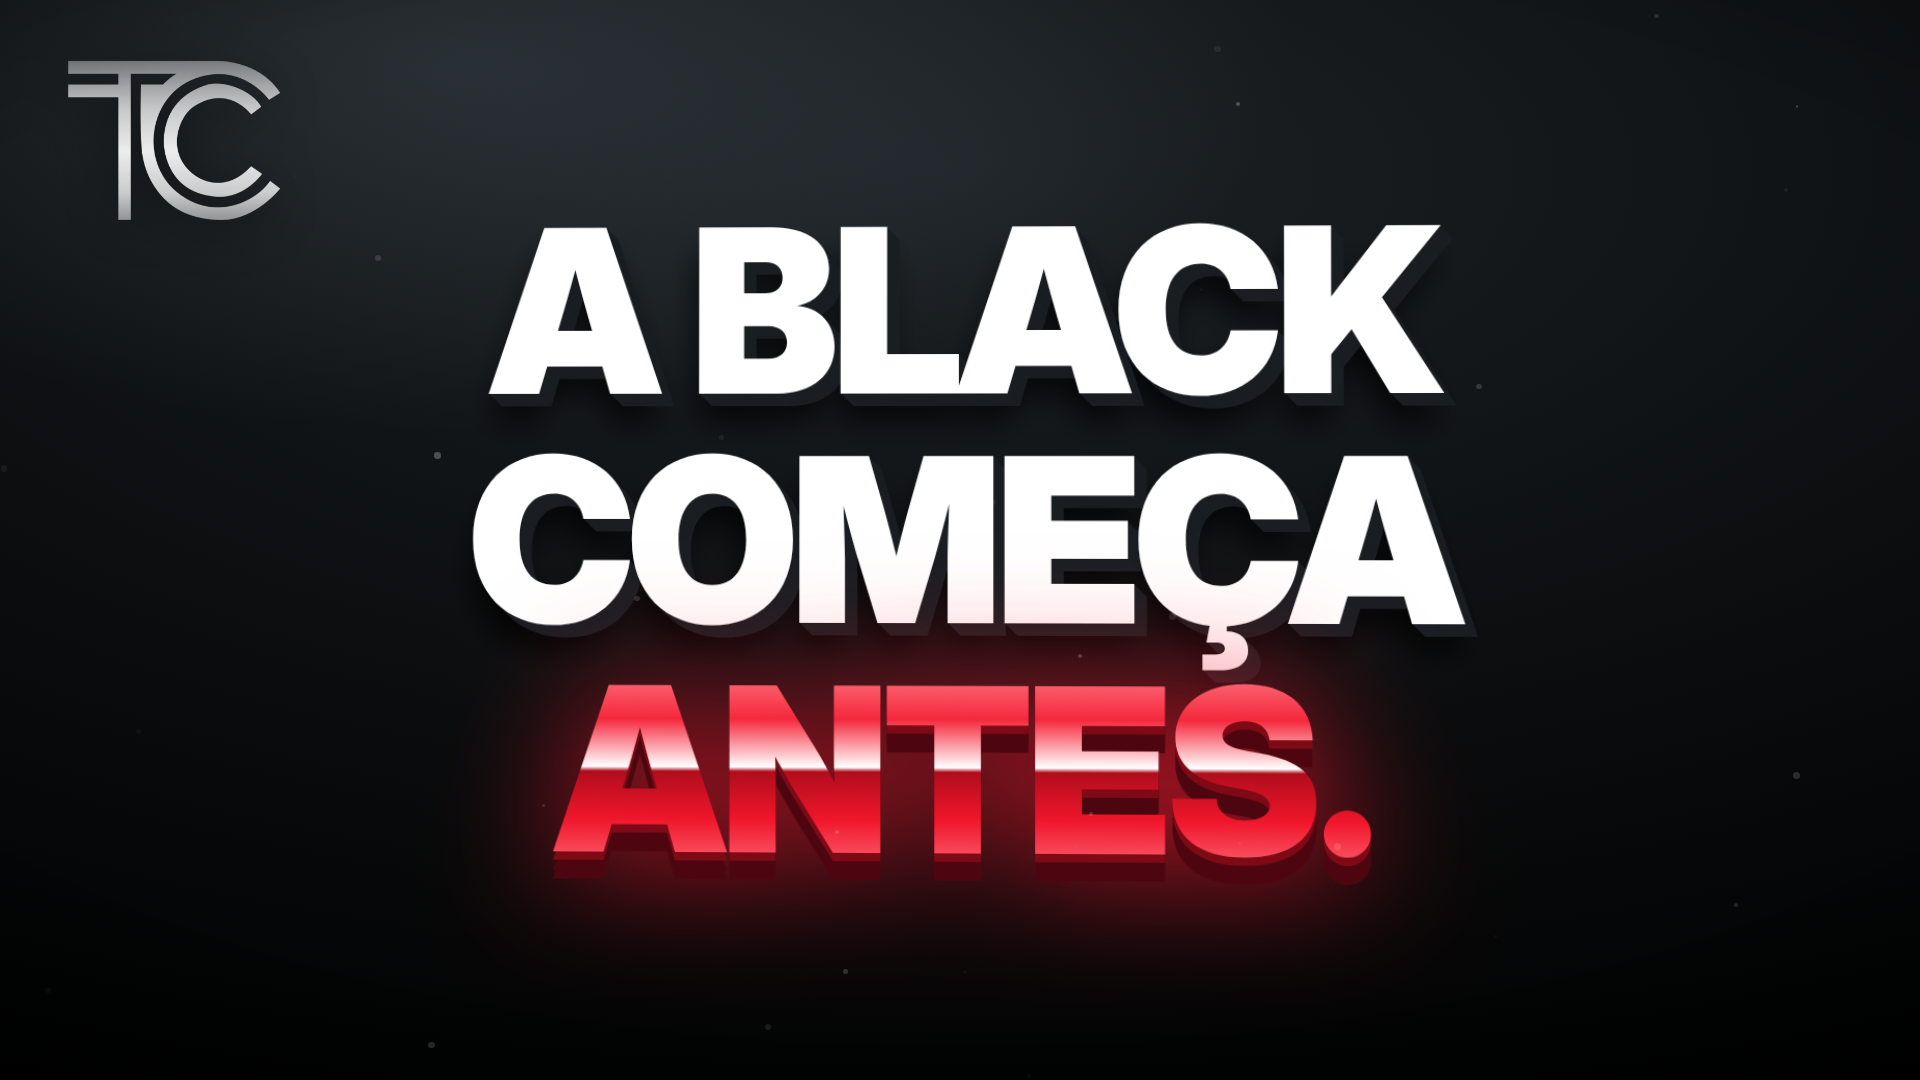
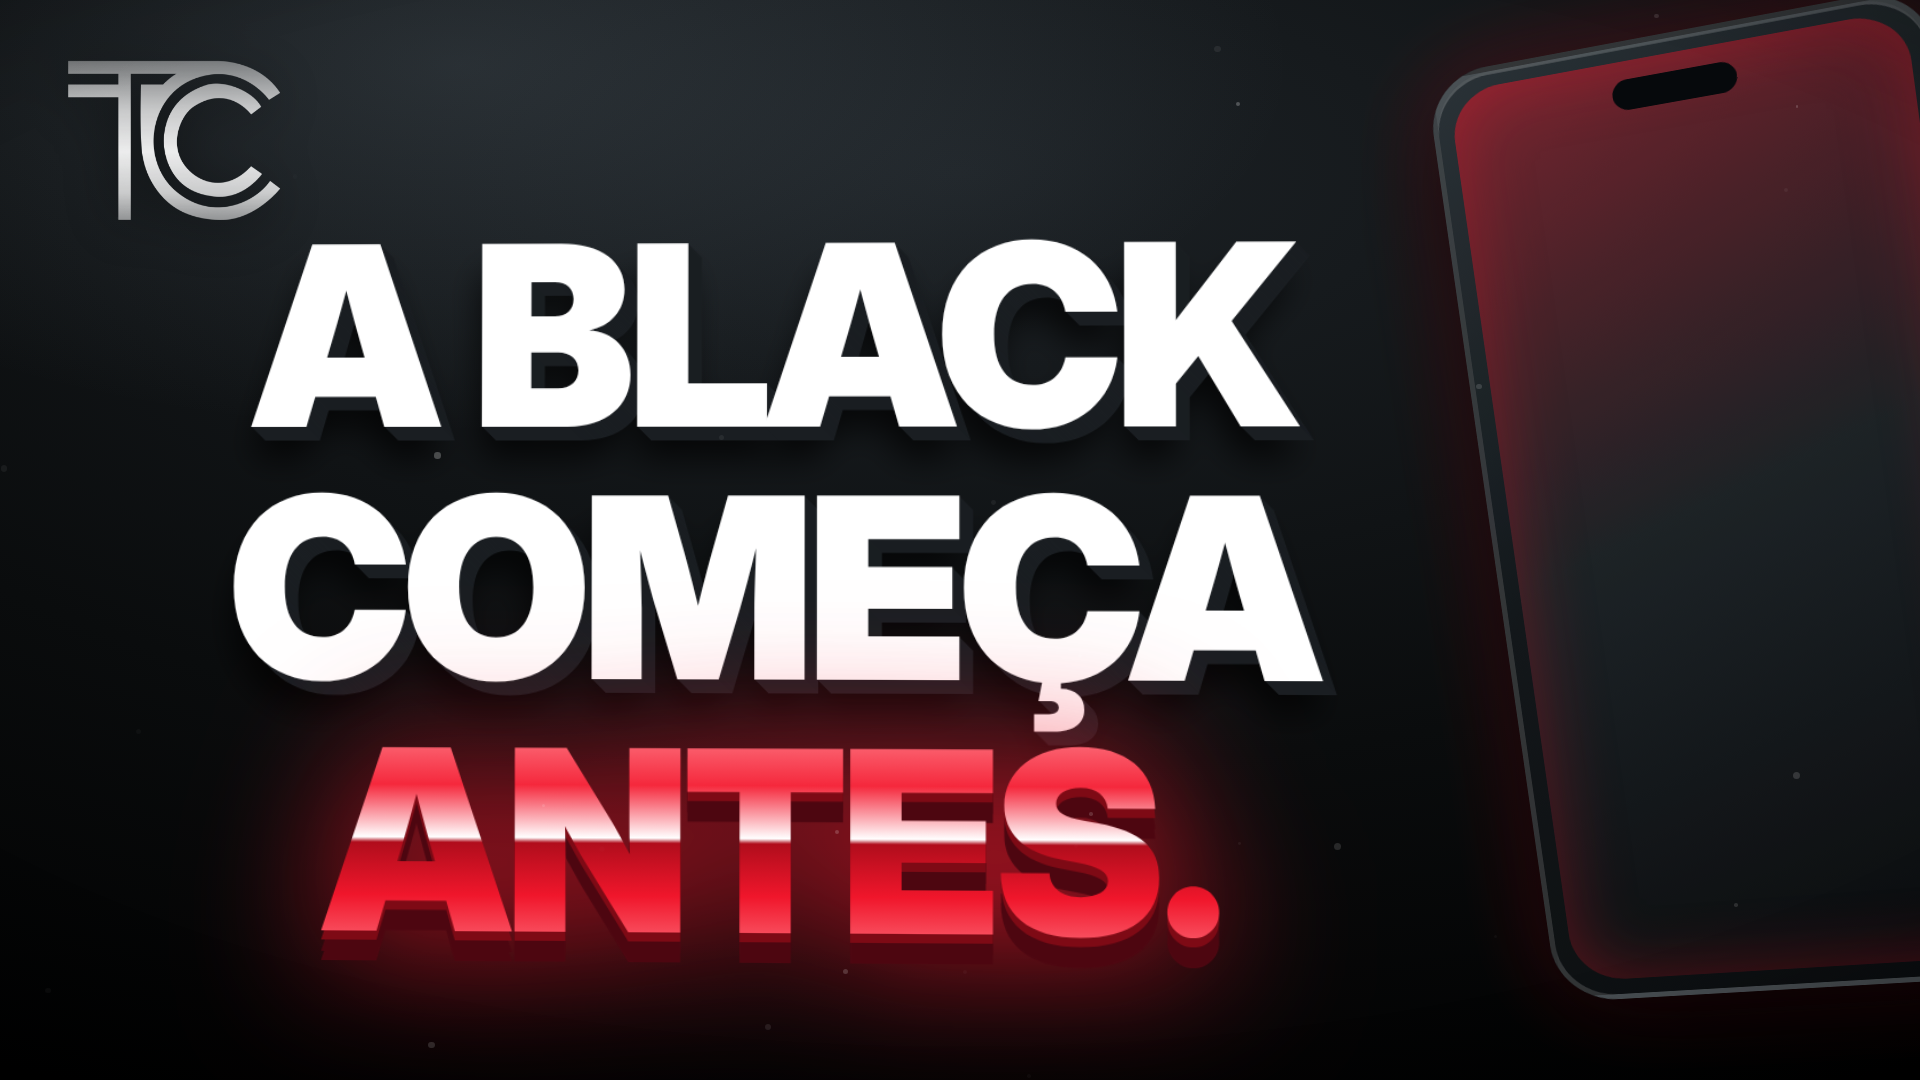
Corrige o dimensionamento das cenas e acrescenta o aparelho
O ajuste automatico so sabia encolher, entao cena pequena ficava
pequena: uma ocupava metade da tela e outra oitenta e cinco por cento.
Agora cada cena mede a area util da propria cena, descontando as
margens, e preenche o mesmo tanto, aumentando quando precisa.

Acrescenta um aparelho em tres dimensoes na direita, cortado pela
borda e girando devagar, que diz de que loja se trata antes de
qualquer palavra ser lida e mantem movimento constante na tela.

As cenas com aparelho ganham folga a direita para o texto nao
atravessa-lo, e todas ganham folga no topo para nao bater na marca do
canto. A tela da data fica sem aparelho, por ser o momento mais aceso.

Claude-Session: https://claude.ai/code/session_01SnLohjoEGJcZxmfxhTNPuX

diff --git a/marketing/gerar-sonhos-3d.js b/marketing/gerar-sonhos-3d.js
@@ -39,7 +39,9 @@ html,body{width:${W}px;height:${H}px;overflow:hidden;background:#000}
 #p{position:relative;width:${W}px;height:${H}px;overflow:hidden;--u:${W/100}px;color:#fff;
   font-family:"Inter Display","Inter",sans-serif}
 .cena{position:absolute;inset:0;display:flex;align-items:center;justify-content:center;opacity:0;
+  padding:calc(var(--u)*10) calc(var(--u)*6) calc(var(--u)*5);
   perspective:calc(var(--u)*90);perspective-origin:50% 42%}
+.comFone{padding-right:calc(var(--u)*26)}
 .fundoEsc{background:radial-gradient(70% 55% at 24% 6%,rgba(150,170,185,.16),rgba(0,0,0,0) 62%),
   radial-gradient(120% 95% at 50% 16%,#1C2125 0%,${PR} 58%,#000 100%)}
 .fundoVm{background:radial-gradient(60% 50% at 24% 10%,rgba(255,255,255,.22),rgba(255,255,255,0) 60%),
@@ -75,6 +77,19 @@ html,body{width:${W}px;height:${H}px;overflow:hidden;background:#000}
 .contF .div{width:2px;height:calc(var(--u)*4);background:rgba(255,255,255,.2)}
 .contF .tel{font-family:"JetBrains Mono",monospace;font-weight:700;font-size:calc(var(--u)*3.4);color:#D6DCE0}
 .contF svg{width:calc(var(--u)*3.6);height:calc(var(--u)*3.6)}
+#fone3d{position:absolute;right:calc(var(--u)*-7);top:50%;z-index:-2;
+  transform-style:preserve-3d;opacity:.95}
+#fone3d .corpo{width:calc(var(--u)*28);height:calc(var(--u)*58);border-radius:calc(var(--u)*3.6);
+  background:linear-gradient(145deg,#2A3237 0%,#12171A 45%,#080A0C 100%);
+  border:calc(var(--u)*.35) solid rgba(255,255,255,.16);position:relative;
+  box-shadow:0 calc(var(--u)*2) calc(var(--u)*6) rgba(0,0,0,.8),
+             inset 0 calc(var(--u)*.2) 0 rgba(255,255,255,.2),
+             0 0 calc(var(--u)*5) rgba(240,22,43,.3)}
+#fone3d .tela{position:absolute;inset:calc(var(--u)*.9);border-radius:calc(var(--u)*3);
+  background:linear-gradient(160deg,rgba(240,22,43,.42) 0%,rgba(30,36,40,.9) 48%,rgba(8,10,12,.95) 100%);
+  box-shadow:inset 0 0 calc(var(--u)*4) rgba(240,22,43,.35)}
+#fone3d .ilha{position:absolute;top:calc(var(--u)*2);left:50%;transform:translateX(-50%);
+  width:calc(var(--u)*7);height:calc(var(--u)*1.8);border-radius:999px;background:#05070A}
 #anel{position:absolute;left:50%;top:50%;width:calc(var(--u)*70);height:calc(var(--u)*70);
   margin:calc(var(--u)*-35) 0 0 calc(var(--u)*-35);border-radius:50%;z-index:-1;
   border:calc(var(--u)*.8) solid rgba(240,22,43,.42);
@@ -92,7 +107,7 @@ html,body{width:${W}px;height:${H}px;overflow:hidden;background:#000}
   background:radial-gradient(120% 94% at 50% 46%,rgba(0,0,0,0) 54%,rgba(0,0,0,.62) 100%)}
 </style>
 <div id="p">
-  <div class="cena fundoEsc" id="s0" style="z-index:10"><div class="box">
+  <div class="cena fundoEsc comFone" id="s0" style="z-index:10"><div id="fone3d"><div class="corpo"><div class="tela"></div><div class="ilha"></div></div></div><div class="box">
     <div id="anel"></div>
     <div class="big cromo nw">${TX.n1}</div>
     <div class="mid cromo nw"><i></i>${TX.n2}<i></i></div>
@@ -100,7 +115,7 @@ html,body{width:${W}px;height:${H}px;overflow:hidden;background:#000}
     <div class="ass nw" id="ass">${TX.ass}</div>
   </div></div>
 
-  <div class="cena fundoEsc" id="s1" style="z-index:20"><div class="box">
+  <div class="cena fundoEsc comFone" id="s1" style="z-index:20"><div id="fone3d"><div class="corpo"><div class="tela"></div><div class="ilha"></div></div></div><div class="box">
     <div class="l2 branco3d nw">${TX.f1}</div>
     <div class="l2 branco3d nw">${TX.f2}</div>
     <div class="l2 rubi nw" id="antes">${TX.f3}</div>
@@ -112,7 +127,7 @@ html,body{width:${W}px;height:${H}px;overflow:hidden;background:#000}
     <div class="cats nw" id="cats">${TX.cats}</div>
   </div></div>
 
-  <div class="cena fundoEsc" id="s3" style="z-index:40"><div class="box">
+  <div class="cena fundoEsc comFone" id="s3" style="z-index:40"><div id="fone3d"><div class="corpo"><div class="tela"></div><div class="ilha"></div></div></div><div class="box">
     <div id="logoWrap"><img src="${LOGO}" alt="Tecno Cell"><img id="logoRef" src="${LOGO}" alt=""></div>
     <div class="ctaF nw" id="ctaF">${TX.cta}</div>
     <div class="contF nw" id="contF">
@@ -140,7 +155,10 @@ POEIRA.forEach(function(d){var e=document.createElement('i');
 var FIT=[1,1,1,1];
 function medir(){
   ENTRA.forEach(function(_,i){var c=document.getElementById('s'+i),b=c.querySelector('.box');
-    FIT[i]=Math.min(1,(1920-160)/b.offsetWidth,(1080-130)/b.offsetHeight);});
+    var cs=getComputedStyle(c);
+    var aw=c.clientWidth -parseFloat(cs.paddingLeft)-parseFloat(cs.paddingRight);
+    var ah=c.clientHeight-parseFloat(cs.paddingTop) -parseFloat(cs.paddingBottom);
+    FIT[i]=Math.min(aw*0.94/b.offsetWidth, ah*0.92/b.offsetHeight);});
   document.documentElement.dataset.fit=FIT.map(function(v){return v.toFixed(3);}).join(',');
   document.documentElement.dataset.pronto='1';
 }
@@ -172,6 +190,13 @@ window.render=function(t){
       'deg) rotateY('+(ry-deriva).toFixed(2)+'deg) scale('+(FIT[i]*(1+.05*p)).toFixed(4)+')';
   });
   var bb=$('#barra');bb.style.opacity=bx>=0?1:0;if(bx>=0)bb.style.left=(bx*100)+'%';
+
+  /* o celular gira devagar e sobe de leve: objeto único que a câmera contorna */
+  Array.prototype.forEach.call(document.querySelectorAll('#fone3d'),function(f){
+    var g=Math.sin(t*0.42)*17-16, inc=Math.cos(t*0.33)*5;
+    f.style.transform='translateY(-50%) rotateY('+g.toFixed(2)+'deg) rotateX('+inc.toFixed(2)+
+      'deg) rotateZ(-8deg) translateZ('+(-14*U).toFixed(1)+'px)';
+  });
 
   var mf=$('#marcaFixa'),m=seg(t,.9,1.5);
   mf.style.opacity=(m*.92).toFixed(3);
